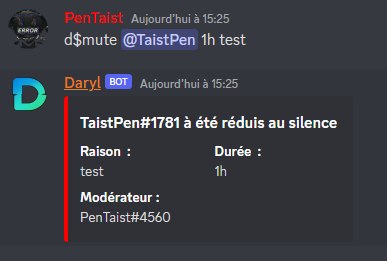
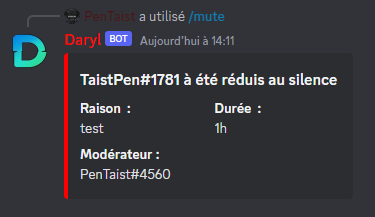
Add files via upload

Changed region(s): [[0.0, 0.0276, 0.9093, 0.9401], [0.5573, 0.553, 0.6747, 0.6083], [0.5573, 0.6359, 0.5867, 0.6912]]

diff --git a/docs.html b/docs.html
@@ -32,89 +32,86 @@
         </div>
     </center>
     <div class="container">
+        <div class="under-maintenance">
+            <h1>Commandes en maintenance :</h1>
+            <p>/gif</p>
+            <p>/rolereact_add</p>
+            <p>/rolereact_del</p>
+        </div>
         <h1 id="basic-commands">
             <font color="#00ffa6">C</font><font color="#00faab">o</font><font color="#00f4b0">m</font><font color="#00efb6">m</font><font color="#00eabb">a</font><font color="#01e4c0">n</font><font color="#01dfc5">d</font><font color="#01dacb">e</font><font color="#01d4d0">s</font><font color="#01cfd5"> </font><font color="#01c9da">d</font><font color="#01c4e0">e</font><font color="#01bfe5"> </font><font color="#02b9ea">b</font><font color="#02b4ef">a</font><font color="#02aff5">s</font><font color="#02a9fa">e</font><font color="#02a4ff">s</font>
         </h1>
         <img src="img/help.png" alt="help">
-        <p>d$help : Afficher la liste des commandes disponibles</p>
+        <p>/help : Afficher la liste des commandes disponibles</p>
         <hr>
         <img src="img/ping.png" alt="ping">
-        <p>d$ping : Jouer au ping pong !</p>
+        <p>/ping : Jouer au ping pong !</p>
         <hr>
         <img src="img/serverinfos.png" alt="serverinfos">
-        <p>d$ServerInfos : Affiche les informations du serveur</p>
+        <p>/ServerInfos : Affiche les informations du serveur</p>
         <hr>
         <img src="img/welcome.png" alt="welcome">
-        <p>d$welcome : Souhaite la bienvenue aux nouveaux membres</p>
+        <p>/welcome : Souhaite la bienvenue aux nouveaux membres</p>
         <h1 id="mod">
             <font color="#00ffa6">M</font><font color="#00f5b0">o</font><font color="#00ebba">d</font><font color="#01e1c4">é</font><font color="#01d7ce">r</font><font color="#01ccd7">a</font><font color="#01c2e1">t</font><font color="#02b8eb">i</font><font color="#02aef5">o</font><font color="#02a4ff">n</font>
         </h1>
         <img src="img/ban.png" alt="ban">
-        <p>d$ban MEMBRE RAISON : Bannir un membre</p>
+        <p>/ban MEMBRE RAISON : Bannir un membre</p>
         <hr>
         <img src="img/unban.png" alt="unban">
-        <p>d$unban MEMBRE RAISON : Débannir un membre</p>
+        <p>/unban MEMBRE RAISON : Débannir un membre</p>
         <hr>
         <img src="img/bans.png" alt="bans">
-        <p>d$bans : Afficher les membres bannis</p>
+        <p>/bans : Afficher les membres bannis</p>
         <hr>
         <img src="img/kick.png" alt="kick">
-        <p>d$kick MEMBRE RAISON : Expulser un membre</p>
+        <p>/kick MEMBRE RAISON : Expulser un membre</p>
         <hr>
         <img src="img/mute.png" alt="mute">
-        <p>d$mute MEMBRE TEMPS RAISON : Réduire au silence un membre</p>
+        <p>/mute MEMBRE TEMPS RAISON : Réduire au silence un membre</p>
         <hr>
         <img src="img/unmute.png" alt="unmute">
-        <p>d$unmute MEMBRE : Rétablir la vois d'un membre</p>
+        <p>/unmute MEMBRE : Rétablir la vois d'un membre</p>
         <hr>
         <img src="img/warn.png" alt="warn">
-        <p>d$warn MEMBRE RAISON : Avertir un membre</p>
+        <p>/warn MEMBRE RAISON : Avertir un membre</p>
         <hr>
         <img src="img/unwarn.png" alt="unwarn">
-        <p>d$unwarn MEMBRE NOM_DU_WARN : Retirer un avertissement à un membre</p>
+        <p>/unwarn MEMBRE NOM_DU_WARN : Retirer un avertissement à un membre</p>
         <hr>
         <img src="img/warns.png" alt="warns">
-        <p>d$warns MEMBRE : Afficher les avertissements d'un membre</p>
+        <p>/warns MEMBRE : Afficher les avertissements d'un membre</p>
         <hr>
         <img src="img/clear.png" alt="clear">
-        <p>d$clear NUMBER : Effacer des messages</p>
+        <p>/clear NOMBRE : Effacer des messages</p>
         <hr>
         <img src="img/rename.png" alt="rename">
-        <p>d$rename MEMBRE PSEUDO : Renommer un membre</p>
+        <p>/rename MEMBRE PSEUDO : Renommer un membre</p>
         <hr>
         <img src="img/roleadd.png" alt="role_add">
-        <p>d$roleadd MEMBRE ROLE : Donner un rôle à un membre</p>
+        <p>/roleadd MEMBRE ROLE : Donner un rôle à un membre</p>
         <hr>
         <img src="img/roledel.png" alt="role_remove">
-        <p>d$roledel MEMBRE ROLE : Enlever un rôle à un membre</p>
+        <p>/roledel MEMBRE ROLE : Enlever un rôle à un membre</p>
         <h1 id="fun">
             <font color="#00ffa6">F</font><font color="#01d2d3">u</font><font color="#02a4ff">n</font>
         </h1>
         <img src="img/cat.png" alt="cat">
-        <p>d$cat : Affiche une image aléatoire de chat</p>
+        <p>/cat : Affiche une image aléatoire de chat</p>
         <hr>
         <img src="img/dog.png" alt="dog">
-        <p>d$dog : Affiche une image aléatoire de chien</p>
-        <hr>
-        <img src="img/gif.png" alt="gif">
-        <p>d$gif MOT : Affiche un gif en rapport avec le mot entré</p>
+        <p>/dog : Affiche une image aléatoire de chien</p>
         <hr>
         <img src="img/joke.png" alt="joke">
-        <p>d$joke : Daryl vous fait une blague drôle (ou pas ;)</p>
+        <p>/joke : Daryl vous fait une blague drôle (ou pas ;)</p>
         <h1 id="other">
             <font color="#00ffa6">A</font><font color="#00edb8">u</font><font color="#01dbca">t</font><font color="#01c8db">r</font><font color="#02b6ed">e</font><font color="#02a4ff">s</font>
         </h1>
         <img src="img/embed.png" alt="embed">
-        <p>d$embed "MESSAGE" : Envoyer un embed</p>
+        <p>/embed "MESSAGE" : Envoyer un embed</p>
         <hr>
         <img src="img/say.png" alt="say">
-        <p>d$say "MESSAGE" : Envoyer un message avec le bot</p>
-        <hr>
-        <img src="img/rolereact_add.png" alt="rolereact_add">
-        <p>d$rolereact_add ROLE EMOJI ID_MESSAGE : Ajouter un rôle réaction</p>
-        <hr>
-        <img src="img/rolereact_del.png" alt="reloreact_del">
-        <p>d$rolereact_del ID_MESSAGE : Supprimer les rôles réactions</p>
+        <p>/say "MESSAGE" : Envoyer un message avec le bot</p>
     </div>
 </body>
 </html>

diff --git a/css/docs.css b/css/docs.css
@@ -37,6 +37,34 @@
     color: #fff;
 }
 
+.under-maintenance {
+    display: flex;
+    flex-direction: column;
+    align-items: center;
+}
+
+.under-maintenance h1 {
+    color: red;
+}
+
+@keyframes under-maintenance {
+    0% {
+        color: red;
+    }
+
+    50% {
+        color: transparent;
+    }
+
+    100% {
+        color: red;
+    }
+}
+
+.under-maintenance h1 {
+    animation: under-maintenance 1s infinite;
+}
+
 @media only screen and (max-width: 750px) {
     .sidebar {
         width: 50%;

diff --git a/css/credits.css b/css/credits.css
@@ -21,8 +21,8 @@
 
 .container .social {
     margin-top: 10%;
-    width: 300px;
-    height: auto;
+	width: 300px;
+	height: auto;
 }
 
 .container .social img {
